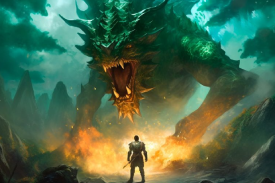
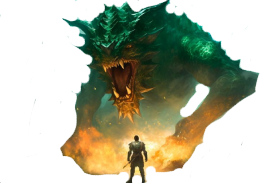
Changed background to images, semi-transparent bg

diff --git a/dice.html b/dice.html
@@ -23,11 +23,11 @@
         <img src="/assets/images/m_logo.png" height="100" alt="This is a picture of our logo.">
     </a>
     </div>
-    <hr>
     <h3>Dice Shop</h3>
+    <hr>
     <br>
-    <table id="tab1" align="center" style="border: 3px; border-color: black; border-radius: 5px;">
-        <tr style="background-color: #transparent; border-radius: 5px;">
+    <table id="tab1" align="center" style="border: 3px; border-color: black; border-radius: 5px; margin-left: 50px;">
+        <tr style="border-radius: 5px;">
             <td>
                 <a href="" target="_self" title="Request personalized custom dice!">
                     <img src="/assets/images/Dice.png" height="120" alt="This is a picture of dnd dice.">
@@ -44,7 +44,7 @@
                 </a>
             </td>
         </tr>
-        <tr align="center" style="background-color: transparent;">
+        <tr align="center">
             <th>
                 Request Custom Dice
             </th>
@@ -55,7 +55,7 @@
                 Fire & Ice Dice
             </th>
         </tr>
-        <tr style="background-color: transparent;">
+        <tr>
             <td>
                 <button style="background-color: transparent; color: #00FF00; text-shadow: -1px -1px 0 #000, 1px -1px 0 #000, -1px 1px 0 #000, 1px 1px 0 #000; border-width: 0cap; border-radius: 5px;">Starting at $35</button>
             </td>

diff --git a/css/dice.css b/css/dice.css
@@ -6,6 +6,7 @@
 }
 body{
     background-color: wheat;
+    background: url("/assets/images/diceback.png") no-repeat;
 }
 table{
     text-align: center;
@@ -13,6 +14,7 @@ table{
 #tab1{
     border-spacing: 50px 0px;
     border-radius: 5px;
+    background-color: rgba(255, 255, 255, .5);
     td{
         color: rgb(0, 253, 0);
         text-shadow: -1px -1px 0 #000, 1px -1px 0 #000, -1px 1px 0 #000, 1px 1px 0 #000;
@@ -25,6 +27,7 @@ table{
     border: 3px solid rgba(255, 255, 255, .2);
 }
 h3{
+    background-color: rgba(214, 207, 154);
     text-align: center;
     color: #000;
 }

diff --git a/css/prints.css b/css/prints.css
@@ -6,6 +6,7 @@
 }
 body{
     background-color: wheat;
+    background: url("/assets/images/printback.png") no-repeat;
 }
 table{
     text-align: center;
@@ -14,6 +15,7 @@ table{
 h3{
     text-align: center;
     color: #000;
+    background-color: rgb(214, 207, 154);
 }
 thead a{
     text-align: center;
@@ -23,6 +25,11 @@ thead a{
 thead a:hover{
     color: #fff;
     text-decoration: underline;
+}
+#row1{
+    background-color: rgba(255, 255, 255, .5);
+    margin-left: 50px;
+    border-radius: 5px;
 }
 #row1 img:hover{
     cursor: grab;

diff --git a/print.html b/print.html
@@ -23,8 +23,8 @@
             <img src="/assets/images/m_logo.png" height="100" alt="This is a picture of our logo.">
         </a>
     </div>
+    <h3>3D Print Shop</h3>
     <hr>
-    <h3>3D Print Shop!</h3>
     <br>
     <table id="row1" align="center">
         <tr>

diff --git a/index.html b/index.html
@@ -1,4 +1,4 @@
-<!doctype html>
+    <!doctype html>
 
 <html>
 <head>
